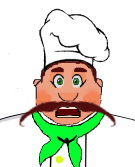
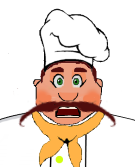
- New function in CustomerManager to test the number of places delivered - Change the color of teacher's scarf to orange

Changed region(s): [[0.237, 0.6587, 0.7704, 1.0]]

diff --git a/web/js/nobugs/customerman.js b/web/js/nobugs/customerman.js
@@ -598,3 +598,20 @@ CustomerManager.fullDeliveredCustomers = function() {
 	return f(customers) + f(this.history);
 	
 };
+
+CustomerManager.fullDeliveredCustomersHowManyPlaces = function() {
+	
+	var places = [];
+	
+	var f = function(customers) {
+		
+		for (var i = 0; i < customers.length; i++)
+			if (customers[i].fullDelivered()) {
+				if (places.indexOf(customers[i].place) == -1)
+					places.push(customers[i].place);
+			}
+	};
+	f(customers); f(this.history);
+	return  places.length;
+	
+};
